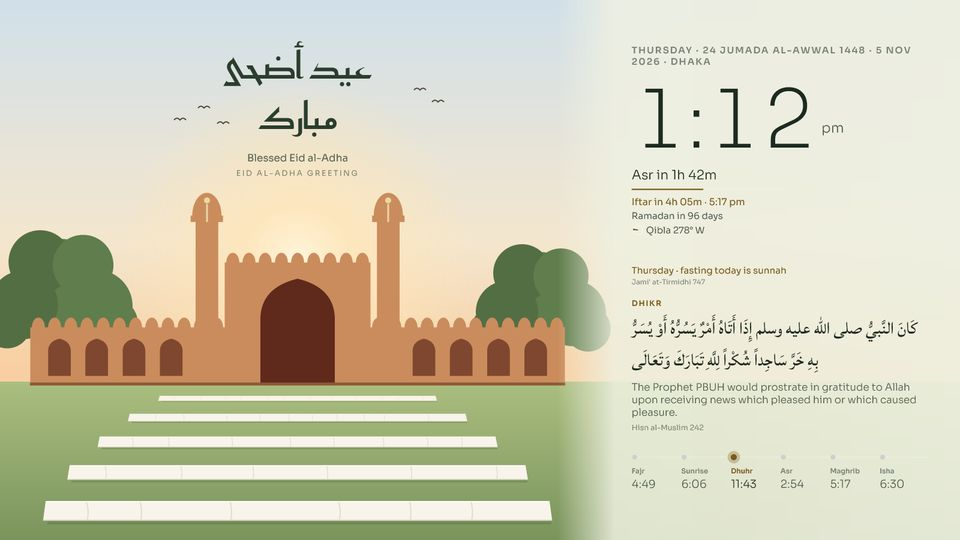
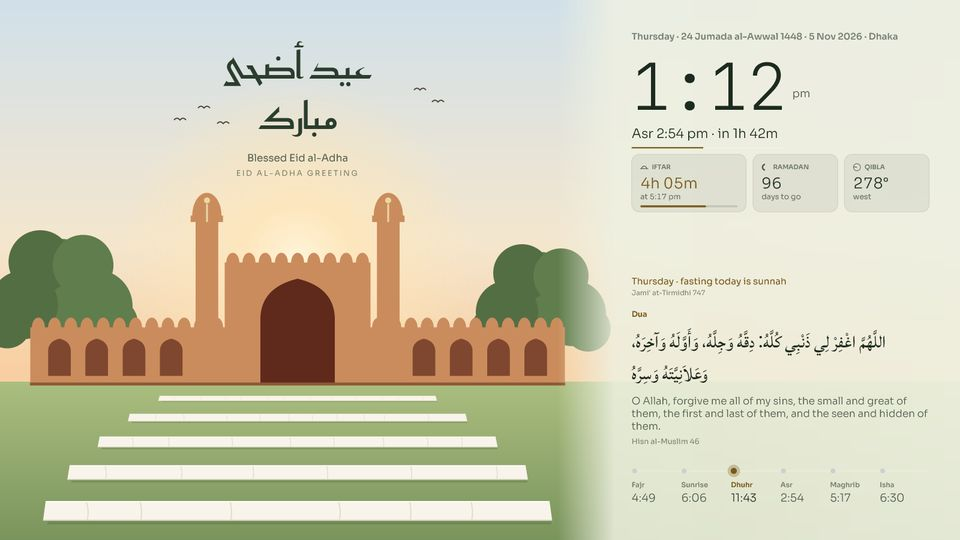
README and demo page: clock designs and the info styles

diff --git a/docs/index.html b/docs/index.html
@@ -356,6 +356,14 @@ h2{font-size:clamp(28px,3.6vw,44px);font-weight:300;letter-spacing:-.035em;line-
         <li>The Qibla direction for your city, and the days left until Ramadan and the two Eids</li>
         <li>A quiet notification a few minutes before each prayer, and before Jumu'ah</li>
         <li>69 fonts in Arabic, Bangla and English, and 18 ways to style the clock, date, text and cards</li></ul></div></div>
+      <div class="cell b6"><div class="core"><span class="tag">Clock</span><h3>Six designs, or none</h3><ul>
+        <li>Classic, bold hours, stacked, flip tiles, a pill with a seconds ring, or an analog dial</li>
+        <li>Turn the clock off and the next prayer becomes the headline</li>
+        <li>With seconds on, only the seconds change; nothing else moves</li></ul></div></div>
+      <div class="cell b6"><div class="core"><span class="tag">At a glance</span><h3>Fasting, next event and Qibla</h3><ul>
+        <li>As lines, chips, small cards or one ruled strip</li>
+        <li>The iftar card shows how much of the fast is done</li>
+        <li>Uses the empty space beside the countdown</li></ul></div></div>
       <div class="cell b4"><div class="core"><span class="tag">Updates</span><h3>Checks once a day</h3><p style="margin-top:12px">A small helper asks GitHub for a new version and closes again. You choose when to install, from the tray menu.</p></div></div>
     </div>
     <div class="note"><b>Authenticity.</b> No text was typed from memory: every word is pulled from published datasets by a build script, and only the references were chosen by hand. Hadith come only from collections with their grading shown; adhkar from Hisn al-Muslim with item numbers. Days whose special worship is disputed are not presented as worship days.</div>
@@ -390,6 +398,11 @@ h2{font-size:clamp(28px,3.6vw,44px);font-weight:300;letter-spacing:-.035em;line-
     <span class="eyebrow">Calligraphy</span>
     <h2>Scenes the app draws itself.</h2>
     <div class="gal"><figure><img src="calligraphy/illuminated-page.jpg" alt="Illuminated page" loading="lazy"><figcaption>Illuminated page</figcaption></figure><figure><img src="calligraphy/night-over-the-mosque.jpg" alt="Night over the mosque" loading="lazy"><figcaption>Night over the mosque</figcaption></figure><figure><img src="calligraphy/lanterns.jpg" alt="Lanterns" loading="lazy"><figcaption>Lanterns</figcaption></figure><figure><img src="calligraphy/tone-on-tone-allah.jpg" alt="Tone on tone" loading="lazy"><figcaption>Tone on tone</figcaption></figure><figure><img src="calligraphy/ramadan-night.jpg" alt="Ramadan night" loading="lazy"><figcaption>Ramadan night</figcaption></figure><figure><img src="calligraphy/eid-morning.jpg" alt="Eid morning" loading="lazy"><figcaption>Eid morning</figcaption></figure><figure><img src="calligraphy/day-of-arafah.jpg" alt="Day of Arafah" loading="lazy"><figcaption>Day of Arafah</figcaption></figure><figure><img src="calligraphy/eid-prayer-at-the-eidgah.jpg" alt="Eid al-Adha" loading="lazy"><figcaption>Eid al-Adha</figcaption></figure><figure><img src="calligraphy/takbir-of-eid.jpg" alt="Takbir of Eid" loading="lazy"><figcaption>Takbir of Eid</figcaption></figure></div>
+  </section>
+  <section id="clocks">
+    <span class="eyebrow">Clock</span>
+    <h2>Six clocks, or none at all.</h2>
+    <div class="gal"><figure><img src="calligraphy/clock-classic.jpg" alt="Classic clock" loading="lazy"><figcaption>Classic</figcaption></figure><figure><img src="calligraphy/clock-split.jpg" alt="Bold hours clock" loading="lazy"><figcaption>Bold hours</figcaption></figure><figure><img src="calligraphy/clock-stack.jpg" alt="Stacked clock" loading="lazy"><figcaption>Stacked</figcaption></figure><figure><img src="calligraphy/clock-tiles.jpg" alt="Tiles clock" loading="lazy"><figcaption>Tiles</figcaption></figure><figure><img src="calligraphy/clock-pill.jpg" alt="Pill clock" loading="lazy"><figcaption>Pill</figcaption></figure><figure><img src="calligraphy/clock-dial.jpg" alt="Dial clock" loading="lazy"><figcaption>Dial</figcaption></figure></div>
   </section>
   <section id="install">
     <span class="eyebrow">Install</span>

diff --git a/tools/site/build_site.py b/tools/site/build_site.py
@@ -75,6 +75,17 @@ for sid, _ in GALLERY:
                         "--set", "layout=column", "--set", "side=right"], check=True)
         Image.open(png).convert("RGB").resize((960, 540), Image.LANCZOS).save(DOCS / f"calligraphy/{sid}.jpg", "JPEG", quality=80, optimize=True, progressive=True)
         png.unlink()
+# Clock designs, rendered the same way.
+CLOCKS = [("classic", "Classic"), ("split", "Bold hours"), ("stack", "Stacked"), ("tiles", "Tiles"), ("pill", "Pill"), ("dial", "Dial")]
+for cid, _ in CLOCKS:
+    png = DOCS / f"calligraphy/clock-{cid}.png"
+    if EXE.exists():
+        subprocess.run([str(EXE), "--snapshot", str(png), "--size", "1600x900", "--at", "13:12:07", "--set", "scene=wadirum",
+                        "--set", "rotate=keep", "--set", "seconds=true", "--set", "show_monitor=false", "--set", "lang=en",
+                        "--set", "layout=column", "--set", "side=left", "--set", f"clock_design={cid}", "--set", "info_style=cards"], check=True)
+        Image.open(png).convert("RGB").crop((0, 0, 800, 450)).resize((640, 360), Image.LANCZOS).save(DOCS / f"calligraphy/clock-{cid}.jpg", "JPEG", quality=82, optimize=True, progressive=True)
+        png.unlink()
+clocks = "".join(f'<figure><img src="calligraphy/clock-{cid}.jpg" alt="{name} clock" loading="lazy"><figcaption>{name}</figcaption></figure>' for cid, name in CLOCKS)
 gallery = "".join(f'<figure><img src="calligraphy/{sid}.jpg" alt="{name}" loading="lazy"><figcaption>{name}</figcaption></figure>' for sid, name in GALLERY)
 
 ed("""        <li>Turn it off and the wallpaper goes back to updating once a minute</li></ul></div></div>
@@ -92,6 +103,14 @@ ed("""        <li>Turn it off and the wallpaper goes back to updating once a min
         <li>The Qibla direction for your city, and the days left until Ramadan and the two Eids</li>
         <li>A quiet notification a few minutes before each prayer, and before Jumu'ah</li>
         <li>69 fonts in Arabic, Bangla and English, and 18 ways to style the clock, date, text and cards</li></ul></div></div>
+      <div class="cell b6"><div class="core"><span class="tag">Clock</span><h3>Six designs, or none</h3><ul>
+        <li>Classic, bold hours, stacked, flip tiles, a pill with a seconds ring, or an analog dial</li>
+        <li>Turn the clock off and the next prayer becomes the headline</li>
+        <li>With seconds on, only the seconds change; nothing else moves</li></ul></div></div>
+      <div class="cell b6"><div class="core"><span class="tag">At a glance</span><h3>Fasting, next event and Qibla</h3><ul>
+        <li>As lines, chips, small cards or one ruled strip</li>
+        <li>The iftar card shows how much of the fast is done</li>
+        <li>Uses the empty space beside the countdown</li></ul></div></div>
       <div class="cell b4"><div class="core"><span class="tag">Updates</span><h3>Checks once a day</h3><p style="margin-top:12px">A small helper asks GitHub for a new version and closes again. You choose when to install, from the tray menu.</p></div></div>
     </div>""")
 
@@ -114,6 +133,11 @@ gallery_section = f'''  <section id="calligraphy">
     <span class="eyebrow">Calligraphy</span>
     <h2>Scenes the app draws itself.</h2>
     <div class="gal">{gallery}</div>
+  </section>
+  <section id="clocks">
+    <span class="eyebrow">Clock</span>
+    <h2>Six clocks, or none at all.</h2>
+    <div class="gal">{clocks}</div>
   </section>
 '''
 s = s[:start] + gallery_section + install + s[end:]

diff --git a/README.md b/README.md
@@ -28,6 +28,8 @@ The **[live demo](https://saimon8420.github.io/miqaat-wallpaper/)** is an intera
 - **13 calligraphy scenes** drawn by the app: an illuminated page, a night over an Ottoman mosque, dunes at dawn, lanterns, ink and seal, zellige, an oasis, a moonlit sea and more, each with a phrase in bold Kufi lettering and its meaning.
 - **Ramadan and Eid scenes** that appear by themselves: Ramadan nights, Laylat al-Qadr in the last ten nights, Eid al-Fitr, the Day of Arafah and Eid al-Adha. Then your own picture comes back.
 - **The light follows the sky.** The picture turns rose at Fajr, gold at sunrise and orange at Maghrib, and darkens at night. You choose how dark.
+- **Clock your way:** six designs (classic, bold hours, stacked, flip tiles, a pill with a seconds ring, or an analog dial), or turn the clock off and let the next prayer lead. With seconds on, only the seconds change: nothing else on the screen moves.
+- **Fasting, next event and Qibla** as lines, chips, small cards (with how much of the fast is done) or one ruled strip.
 - **Design options:** four layouts (column, centre, corner and bottom bar), a separate clock font, weight and size, three countdown styles, a line, dots or ring for the time left, a date line you choose (weekday, Hijri date, date, city), text colour and shadow, column width, a soft shade or a frosted glass card (dark or light, adjustable blur and corners), four prayer-time styles, five system-monitor styles, five accent colours or any colour you pick, a slow camera drift, film grain and picture effects.
 - **69 fonts:** 28 Arabic, 9 Bangla and 32 English. The wallpaper can be in English, বাংলা or العربية.
 - **Fasting, Qibla and events:** suhoor and iftar countdowns on Ramadan and sunnah fasting days, a small Qibla compass for your city, and how many days until Ramadan or the next Eid.
